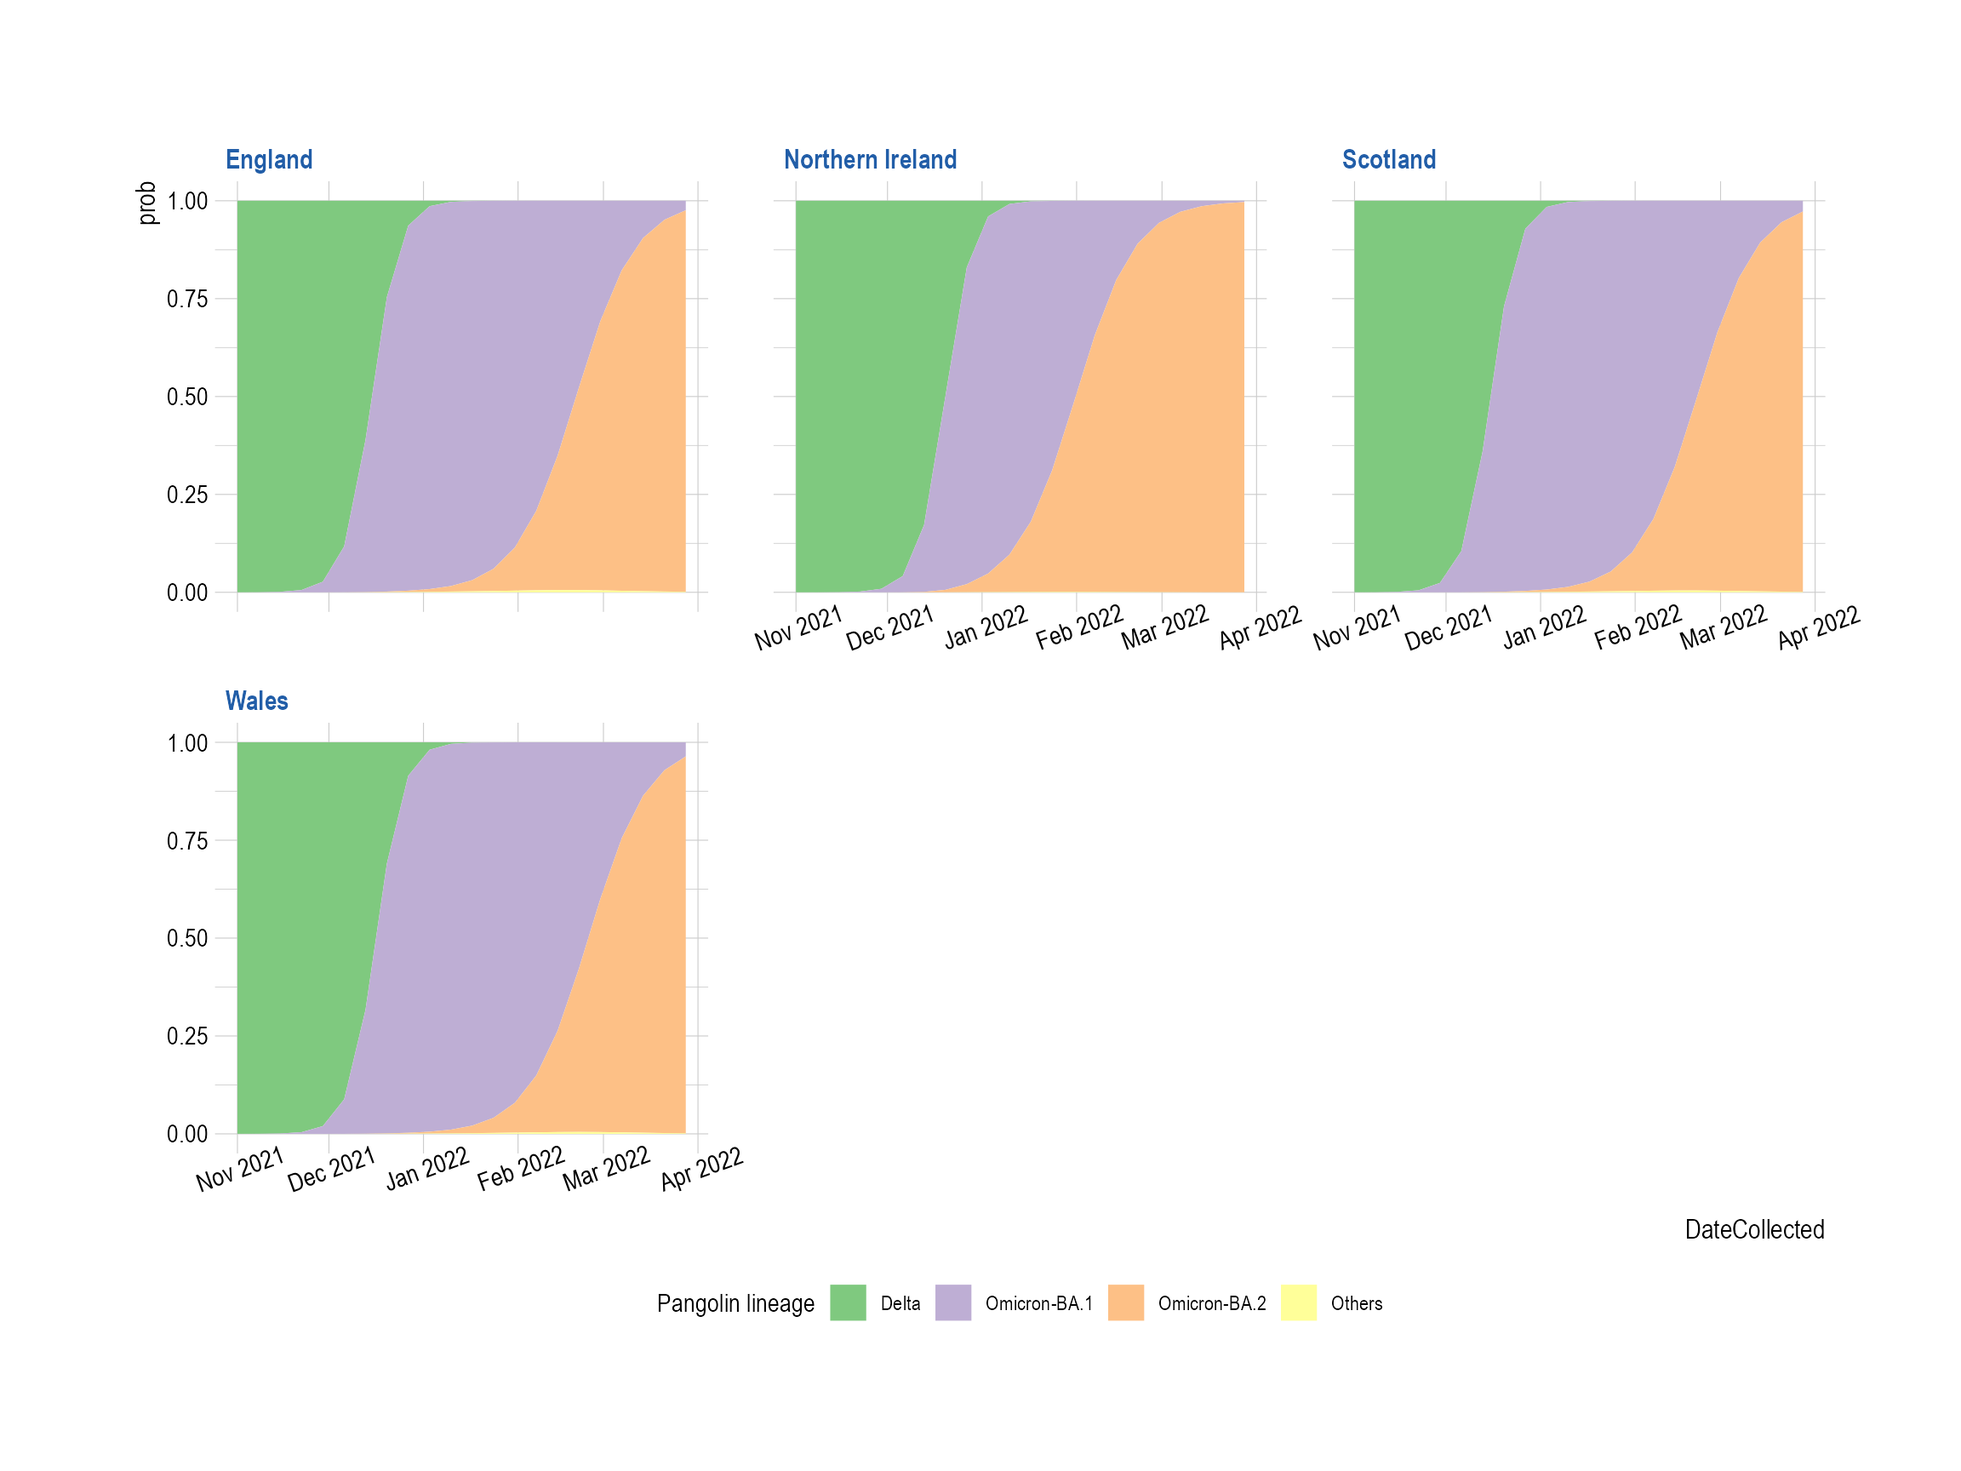
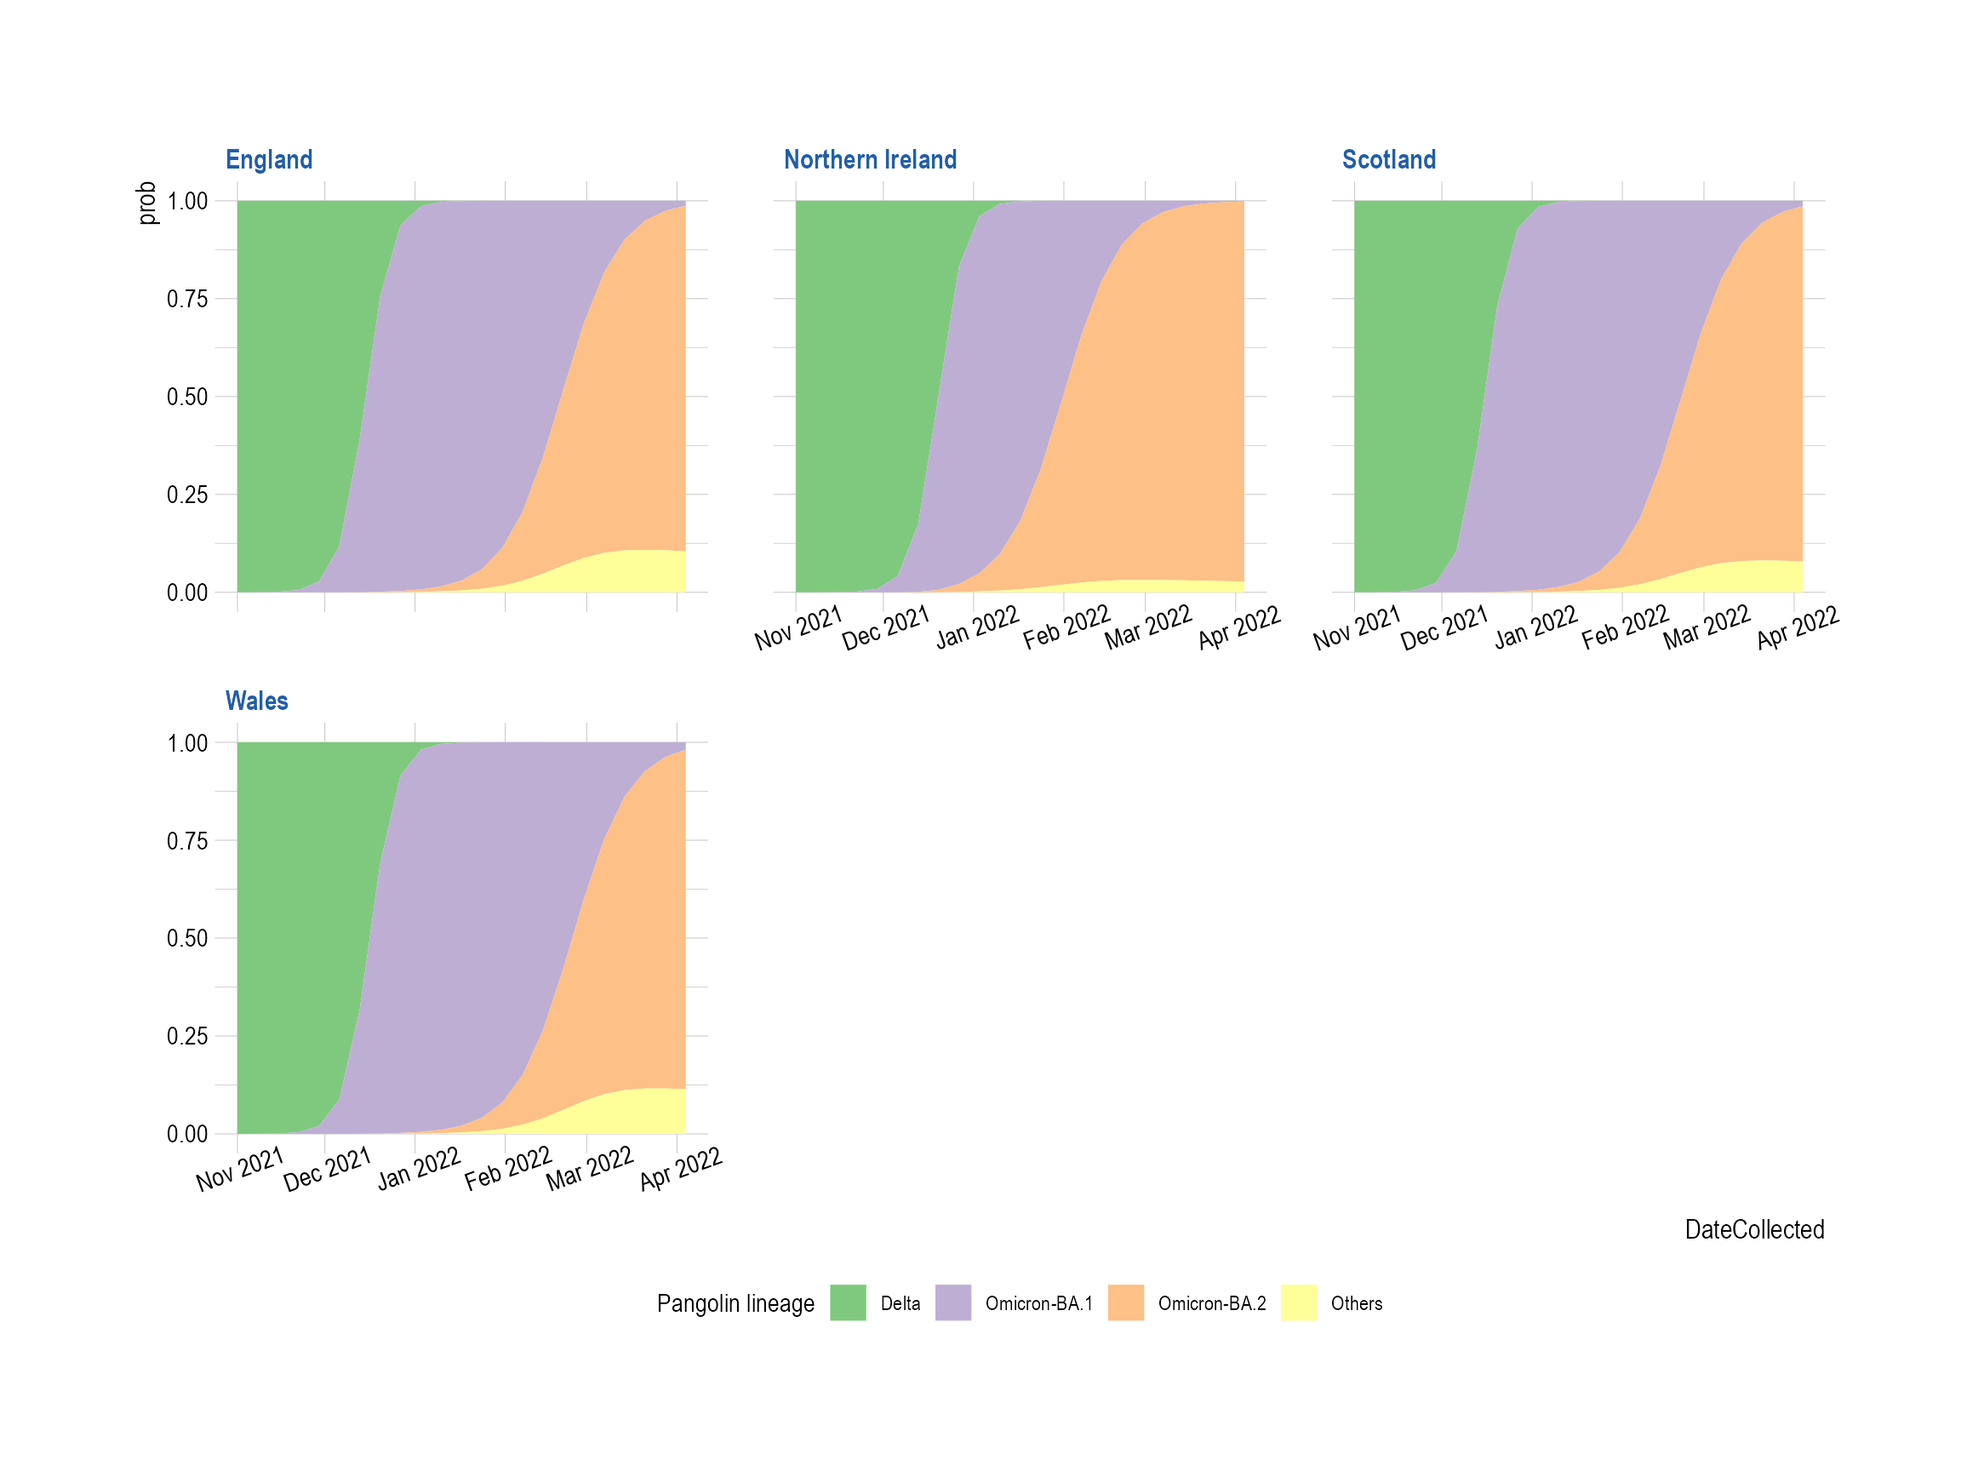
VOX update

diff --git a/docs/articles/MultinomialModeling_UK.html b/docs/articles/MultinomialModeling_UK.html
@@ -48,6 +48,7 @@
   <a href="#" class="nav-link dropdown-toggle" data-bs-toggle="dropdown" role="button" aria-expanded="false" aria-haspopup="true" id="dropdown-articles">Articles</a>
   <div class="dropdown-menu" aria-labelledby="dropdown-articles">
     <a class="dropdown-item" href="../articles/Introduction.html">Introduction to epicovr</a>
+    <a class="dropdown-item" href="../articles/MultinomialModeling_Australia.html">Multinomial modeling - Australia</a>
     <a class="dropdown-item" href="../articles/MultinomialModeling_Canada.html">Multinomial modeling - Canada</a>
     <a class="dropdown-item" href="../articles/MultinomialModeling_India.html">Multinomial modeling - India</a>
     <a class="dropdown-item" href="../articles/MultinomialModeling_UK.html">Multinomial modeling - United Kingdom</a>
@@ -129,7 +130,7 @@
   summarize <span class="op">=</span> <span class="cn">FALSE</span>
 <span class="op">)</span>
 
-<span class="va">gisaid_uk_collapsed_sel</span> <span class="op">&lt;-</span> <span class="va">gisaid_uk_collapsed</span> <span class="op"><a href="https://magrittr.tidyverse.org/reference/pipe.html" class="external-link">%&gt;%</a></span> <span class="fu"><a href="https://dplyr.tidyverse.org/reference/filter.html" class="external-link">filter</a></span><span class="op">(</span><span class="va">MonthYearCollected</span> <span class="op">&gt;=</span> <span class="st">"Nov 2021"</span><span class="op">)</span>
+<span class="va">gisaid_uk_collapsed_sel</span> <span class="op">&lt;-</span> <span class="va">gisaid_uk_collapsed</span> <span class="op"><a href="https://magrittr.tidyverse.org/reference/pipe.html" class="external-link">%&gt;%</a></span> <span class="fu"><a href="https://dplyr.tidyverse.org/reference/filter.html" class="external-link">filter</a></span><span class="op">(</span><span class="va">MonthYearCollected</span> <span class="op">&gt;=</span> <span class="st">"Nov 2021"</span><span class="op">)</span> <span class="op"><a href="https://magrittr.tidyverse.org/reference/pipe.html" class="external-link">%&gt;%</a></span> <span class="fu"><a href="https://dplyr.tidyverse.org/reference/filter.html" class="external-link">filter</a></span><span class="op">(</span><span class="va">lineage_collapsed</span><span class="op">!=</span><span class="st">"Unassigned"</span><span class="op">)</span>
 
 <span class="va">vocs_to_keep</span> <span class="op">&lt;-</span> <span class="fu"><a href="https://rdrr.io/r/base/table.html" class="external-link">table</a></span><span class="op">(</span><span class="va">gisaid_uk_collapsed_sel</span><span class="op">$</span><span class="va">lineage_collapsed</span><span class="op">)</span>
 <span class="va">vocs_to_keep</span> <span class="op">&lt;-</span> <span class="va">vocs_to_keep</span><span class="op">[</span><span class="va">vocs_to_keep</span> <span class="op">&gt;</span> <span class="fl">100</span><span class="op">]</span>
@@ -140,43 +141,40 @@
 <pre><code><span class="co">## <span style="color: #949494;"># A tibble: 6 × 4</span></span>
 <span class="co">##   State   DateCollectedNumeric lineage_collapsed     n</span>
 <span class="co">##   <span style="color: #949494; font-style: italic;">&lt;chr&gt;</span>                  <span style="color: #949494; font-style: italic;">&lt;dbl&gt;</span> <span style="color: #949494; font-style: italic;">&lt;chr&gt;</span>             <span style="color: #949494; font-style: italic;">&lt;int&gt;</span></span>
-<span class="co">## <span style="color: #BCBCBC;">1</span> England                <span style="text-decoration: underline;">18</span>932 Delta              <span style="text-decoration: underline;">5</span>535</span>
-<span class="co">## <span style="color: #BCBCBC;">2</span> England                <span style="text-decoration: underline;">18</span>933 Delta              <span style="text-decoration: underline;">4</span>313</span>
-<span class="co">## <span style="color: #BCBCBC;">3</span> England                <span style="text-decoration: underline;">18</span>933 Omicron-BA.1          1</span>
-<span class="co">## <span style="color: #BCBCBC;">4</span> England                <span style="text-decoration: underline;">18</span>933 Others                1</span>
-<span class="co">## <span style="color: #BCBCBC;">5</span> England                <span style="text-decoration: underline;">18</span>934 Delta              <span style="text-decoration: underline;">5</span>838</span>
-<span class="co">## <span style="color: #BCBCBC;">6</span> England                <span style="text-decoration: underline;">18</span>934 Omicron-BA.1          1</span></code></pre>
+<span class="co">## <span style="color: #BCBCBC;">1</span> England                <span style="text-decoration: underline;">18</span>932 Delta              <span style="text-decoration: underline;">5</span>532</span>
+<span class="co">## <span style="color: #BCBCBC;">2</span> England                <span style="text-decoration: underline;">18</span>932 Others                3</span>
+<span class="co">## <span style="color: #BCBCBC;">3</span> England                <span style="text-decoration: underline;">18</span>933 Delta              <span style="text-decoration: underline;">4</span>313</span>
+<span class="co">## <span style="color: #BCBCBC;">4</span> England                <span style="text-decoration: underline;">18</span>933 Omicron-BA.1          1</span>
+<span class="co">## <span style="color: #BCBCBC;">5</span> England                <span style="text-decoration: underline;">18</span>933 Others                1</span>
+<span class="co">## <span style="color: #BCBCBC;">6</span> England                <span style="text-decoration: underline;">18</span>934 Delta              <span style="text-decoration: underline;">5</span>838</span></code></pre>
 <div class="sourceCode" id="cb6"><pre class="downlit sourceCode r">
 <code class="sourceCode R"><span class="va">fit_uk_multi_predsbystate</span> <span class="op">&lt;-</span> <span class="fu">FitMultinomStatewiseDaily</span><span class="op">(</span><span class="va">gisaid_uk_shared_dateweek</span><span class="op">)</span></code></pre></div>
 <pre><code><span class="co">## # weights:  24 (15 variable)</span>
-<span class="co">## initial  value 1861308.123958 </span>
-<span class="co">## iter  10 value 1462283.231261</span>
-<span class="co">## iter  20 value 483685.104122</span>
-<span class="co">## iter  30 value 461784.128473</span>
-<span class="co">## iter  40 value 459466.105422</span>
-<span class="co">## iter  50 value 456251.835283</span>
-<span class="co">## iter  60 value 445150.170195</span>
-<span class="co">## iter  70 value 444743.115946</span>
-<span class="co">## iter  80 value 443791.402329</span>
-<span class="co">## iter  90 value 441626.744972</span>
-<span class="co">## final  value 441382.314756 </span>
+<span class="co">## initial  value 1919709.932803 </span>
+<span class="co">## iter  10 value 1589825.461877</span>
+<span class="co">## iter  20 value 645917.324197</span>
+<span class="co">## iter  30 value 570479.228386</span>
+<span class="co">## iter  40 value 568966.587471</span>
+<span class="co">## iter  50 value 566567.890862</span>
+<span class="co">## iter  60 value 565464.589706</span>
+<span class="co">## final  value 565208.763137 </span>
 <span class="co">## converged</span></code></pre>
 <div class="sourceCode" id="cb8"><pre class="downlit sourceCode r">
 <code class="sourceCode R"><span class="fu"><a href="https://rdrr.io/r/utils/head.html" class="external-link">head</a></span><span class="op">(</span><span class="va">fit_uk_multi_predsbystate</span><span class="op">)</span></code></pre></div>
 <pre><code><span class="co">##   lineage_collapsed DateCollectedNumeric   State         prob           SE df</span>
-<span class="co">## 1             Delta                18932 England 9.999478e-01 2.562366e-07 NA</span>
-<span class="co">## 2      Omicron-BA.1                18932 England 5.216928e-05 2.562107e-07 NA</span>
-<span class="co">## 3      Omicron-BA.2                18932 England 5.456636e-10 3.235035e-12 NA</span>
-<span class="co">## 4            Others                18932 England 4.789140e-09 9.206939e-11 NA</span>
-<span class="co">## 5             Delta                18939 England 9.997497e-01 1.229566e-06 NA</span>
-<span class="co">## 6      Omicron-BA.1                18939 England 2.502835e-04 1.229388e-06 NA</span>
+<span class="co">## 1             Delta                18932 England 9.999476e-01 2.565662e-07 NA</span>
+<span class="co">## 2      Omicron-BA.1                18932 England 5.242747e-05 2.565629e-07 NA</span>
+<span class="co">## 3      Omicron-BA.2                18932 England 5.074723e-10 2.998786e-12 NA</span>
+<span class="co">## 4            Others                18932 England 1.527567e-10 1.133896e-12 NA</span>
+<span class="co">## 5             Delta                18939 England 9.997485e-01 1.230746e-06 NA</span>
+<span class="co">## 6      Omicron-BA.1                18939 England 2.514481e-04 1.230715e-06 NA</span>
 <span class="co">##      asymp.LCL    asymp.UCL DateCollected</span>
-<span class="co">## 1 9.999473e-01 9.999483e-01    2021-11-01</span>
-<span class="co">## 2 5.166712e-05 5.267144e-05    2021-11-01</span>
-<span class="co">## 3 5.393231e-10 5.520042e-10    2021-11-01</span>
-<span class="co">## 4 4.608687e-09 4.969592e-09    2021-11-01</span>
-<span class="co">## 5 9.997473e-01 9.997521e-01    2021-11-08</span>
-<span class="co">## 6 2.478740e-04 2.526931e-04    2021-11-08</span></code></pre>
+<span class="co">## 1 9.999471e-01 9.999481e-01    2021-11-01</span>
+<span class="co">## 2 5.192462e-05 5.293032e-05    2021-11-01</span>
+<span class="co">## 3 5.015947e-10 5.133498e-10    2021-11-01</span>
+<span class="co">## 4 1.505343e-10 1.549791e-10    2021-11-01</span>
+<span class="co">## 5 9.997461e-01 9.997510e-01    2021-11-08</span>
+<span class="co">## 6 2.490359e-04 2.538602e-04    2021-11-08</span></code></pre>
 </div>
 <div class="section level2">
 <h2 id="plot-smooth-muller-plots">Plot Smooth Muller Plots<a class="anchor" aria-label="anchor" href="#plot-smooth-muller-plots"></a>

diff --git a/docs/articles/MultinomialModeling_Australia.html b/docs/articles/MultinomialModeling_Australia.html
@@ -130,7 +130,7 @@
   summarize <span class="op">=</span> <span class="cn">FALSE</span>
 <span class="op">)</span>
 
-<span class="va">gisaid_australia_collapsed_sel</span> <span class="op">&lt;-</span> <span class="va">gisaid_australia_collapsed</span> <span class="op"><a href="https://magrittr.tidyverse.org/reference/pipe.html" class="external-link">%&gt;%</a></span> <span class="fu"><a href="https://dplyr.tidyverse.org/reference/filter.html" class="external-link">filter</a></span><span class="op">(</span><span class="va">MonthYearCollected</span> <span class="op">&gt;=</span> <span class="st">"Nov 2021"</span><span class="op">)</span>
+<span class="va">gisaid_australia_collapsed_sel</span> <span class="op">&lt;-</span> <span class="va">gisaid_australia_collapsed</span> <span class="op"><a href="https://magrittr.tidyverse.org/reference/pipe.html" class="external-link">%&gt;%</a></span> <span class="fu"><a href="https://dplyr.tidyverse.org/reference/filter.html" class="external-link">filter</a></span><span class="op">(</span><span class="va">MonthYearCollected</span> <span class="op">&gt;=</span> <span class="st">"Nov 2021"</span><span class="op">)</span> <span class="op"><a href="https://magrittr.tidyverse.org/reference/pipe.html" class="external-link">%&gt;%</a></span> <span class="fu"><a href="https://dplyr.tidyverse.org/reference/filter.html" class="external-link">filter</a></span><span class="op">(</span><span class="va">lineage_collapsed</span><span class="op">!=</span><span class="st">"Unassigned"</span><span class="op">)</span>
 
 <span class="va">vocs_to_keep</span> <span class="op">&lt;-</span> <span class="fu"><a href="https://rdrr.io/r/base/table.html" class="external-link">table</a></span><span class="op">(</span><span class="va">gisaid_australia_collapsed_sel</span><span class="op">$</span><span class="va">lineage_collapsed</span><span class="op">)</span>
 <span class="va">vocs_to_keep</span> <span class="op">&lt;-</span> <span class="va">vocs_to_keep</span><span class="op">[</span><span class="va">vocs_to_keep</span> <span class="op">&gt;</span> <span class="fl">100</span><span class="op">]</span>

diff --git a/docs/articles/MultinomialModeling_India.html b/docs/articles/MultinomialModeling_India.html
@@ -130,7 +130,7 @@
   summarize <span class="op">=</span> <span class="cn">FALSE</span>
 <span class="op">)</span>
 
-<span class="va">gisaid_india_collapsed_sel</span> <span class="op">&lt;-</span> <span class="va">gisaid_india_collapsed</span> <span class="op"><a href="https://magrittr.tidyverse.org/reference/pipe.html" class="external-link">%&gt;%</a></span> <span class="fu"><a href="https://dplyr.tidyverse.org/reference/filter.html" class="external-link">filter</a></span><span class="op">(</span><span class="va">MonthYearCollected</span> <span class="op">&gt;=</span> <span class="st">"Nov 2021"</span><span class="op">)</span>
+<span class="va">gisaid_india_collapsed_sel</span> <span class="op">&lt;-</span> <span class="va">gisaid_india_collapsed</span> <span class="op"><a href="https://magrittr.tidyverse.org/reference/pipe.html" class="external-link">%&gt;%</a></span> <span class="fu"><a href="https://dplyr.tidyverse.org/reference/filter.html" class="external-link">filter</a></span><span class="op">(</span><span class="va">MonthYearCollected</span> <span class="op">&gt;=</span> <span class="st">"Nov 2021"</span><span class="op">)</span> <span class="op"><a href="https://magrittr.tidyverse.org/reference/pipe.html" class="external-link">%&gt;%</a></span> <span class="fu"><a href="https://dplyr.tidyverse.org/reference/filter.html" class="external-link">filter</a></span><span class="op">(</span><span class="va">lineage_collapsed</span><span class="op">!=</span><span class="st">"Unassigned"</span><span class="op">)</span>
 <span class="va">vocs_to_keep</span> <span class="op">&lt;-</span> <span class="fu"><a href="https://rdrr.io/r/base/table.html" class="external-link">table</a></span><span class="op">(</span><span class="va">gisaid_india_collapsed_sel</span><span class="op">$</span><span class="va">lineage_collapsed</span><span class="op">)</span>
 <span class="va">vocs_to_keep</span> <span class="op">&lt;-</span> <span class="va">vocs_to_keep</span><span class="op">[</span><span class="va">vocs_to_keep</span> <span class="op">&gt;</span> <span class="fl">100</span><span class="op">]</span>
 

diff --git a/docs/articles/MultinomialModeling_USA.html b/docs/articles/MultinomialModeling_USA.html
@@ -130,7 +130,7 @@
   summarize <span class="op">=</span> <span class="cn">FALSE</span>
 <span class="op">)</span>
 
-<span class="va">gisaid_usa_collapsed_sel</span> <span class="op">&lt;-</span> <span class="va">gisaid_usa_collapsed</span> <span class="op"><a href="https://magrittr.tidyverse.org/reference/pipe.html" class="external-link">%&gt;%</a></span> <span class="fu"><a href="https://dplyr.tidyverse.org/reference/filter.html" class="external-link">filter</a></span><span class="op">(</span><span class="va">MonthYearCollected</span> <span class="op">&gt;=</span> <span class="st">"Nov 2021"</span><span class="op">)</span>
+<span class="va">gisaid_usa_collapsed_sel</span> <span class="op">&lt;-</span> <span class="va">gisaid_usa_collapsed</span> <span class="op"><a href="https://magrittr.tidyverse.org/reference/pipe.html" class="external-link">%&gt;%</a></span> <span class="fu"><a href="https://dplyr.tidyverse.org/reference/filter.html" class="external-link">filter</a></span><span class="op">(</span><span class="va">MonthYearCollected</span> <span class="op">&gt;=</span> <span class="st">"Nov 2021"</span><span class="op">)</span> <span class="op"><a href="https://magrittr.tidyverse.org/reference/pipe.html" class="external-link">%&gt;%</a></span> <span class="fu"><a href="https://dplyr.tidyverse.org/reference/filter.html" class="external-link">filter</a></span><span class="op">(</span><span class="va">lineage_collapsed</span><span class="op">!=</span><span class="st">"Unassigned"</span><span class="op">)</span>
 
 <span class="va">vocs_to_keep</span> <span class="op">&lt;-</span> <span class="fu"><a href="https://rdrr.io/r/base/table.html" class="external-link">table</a></span><span class="op">(</span><span class="va">gisaid_usa_collapsed_sel</span><span class="op">$</span><span class="va">lineage_collapsed</span><span class="op">)</span>
 <span class="va">vocs_to_keep</span> <span class="op">&lt;-</span> <span class="va">vocs_to_keep</span><span class="op">[</span><span class="va">vocs_to_keep</span> <span class="op">&gt;</span> <span class="fl">100</span><span class="op">]</span>
